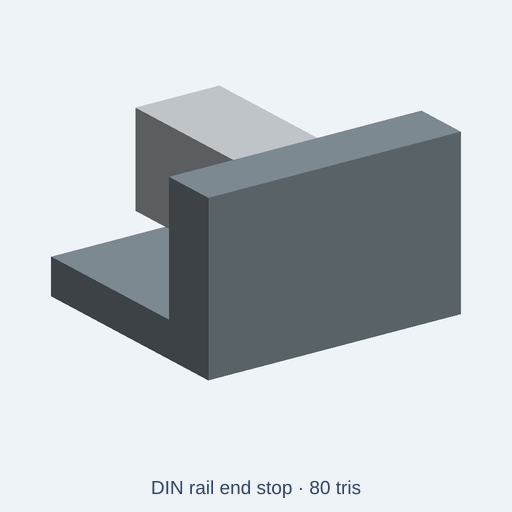
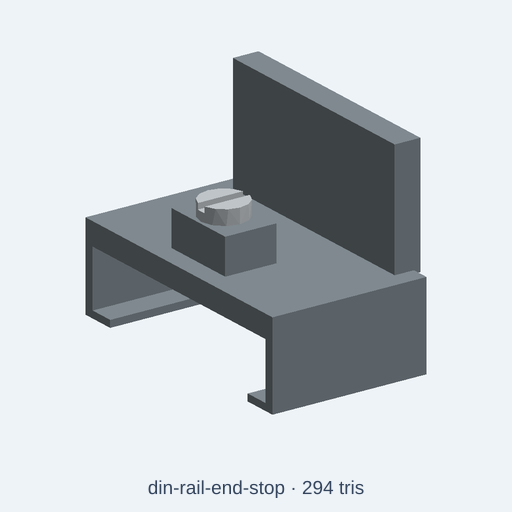
test(catalog): bind end-stop preview to verified rail geometry

diff --git a/tests/integration/catalog/dinRailEndStopFidelity.test.ts b/tests/integration/catalog/dinRailEndStopFidelity.test.ts
@@ -7,6 +7,7 @@ import { NodeIO } from '@gltf-transform/core';
 import { initOcct } from '../../../src/kernel/backends/occt/occtBackend';
 import { buildCatalogAssetWithGlb } from '../../../src/agent/catalog/buildCatalog';
 import { runAndExport } from '../../../src/agent/script-runtime/export';
+import { glbTriangles, renderTrianglesPng } from '../../../scripts/lib/glbSoftwareRender';
 type V=[number,number,number]; type Tri=[V,V,V];
 const root=resolve(import.meta.dirname,'../../..');
 const file='catalog/kits/standard-components/din-rail-end-stop.kcad.ts';
@@ -58,6 +59,12 @@ function checkCrossSection(t:Tri[],s:number) {
 }
 beforeAll(async()=>{await initOcct();},30000);
 describe('illustrative TH35 DIN rail end stop geometry',()=>{
+ it('committed gallery preview matches actual evaluated source render',async()=>{
+  const {asset,glb}=await buildCatalogAssetWithGlb(root,file);
+  const rendered=await renderTrianglesPng(await glbTriangles(glb),{yawDeg:35,label:`${asset.id} · ${asset.stats.triangles} tris`});
+  const published=readFileSync(resolve(root,'catalog/kits/standard-components/previews/din-rail-end-stop.png'));
+  expect(Buffer.compare(rendered,published),'thumbnail must reflect edited physical geometry, not an old marketing silhouette').toBe(0);
+ },30000);
  it('has under-lip geometry, actual open channel, transverse stop and separate slotted screw',async()=>{
   const {asset,glb}=await buildCatalogAssetWithGlb(root,file);
   expect(asset.title).toMatch(/illustrative/i);
